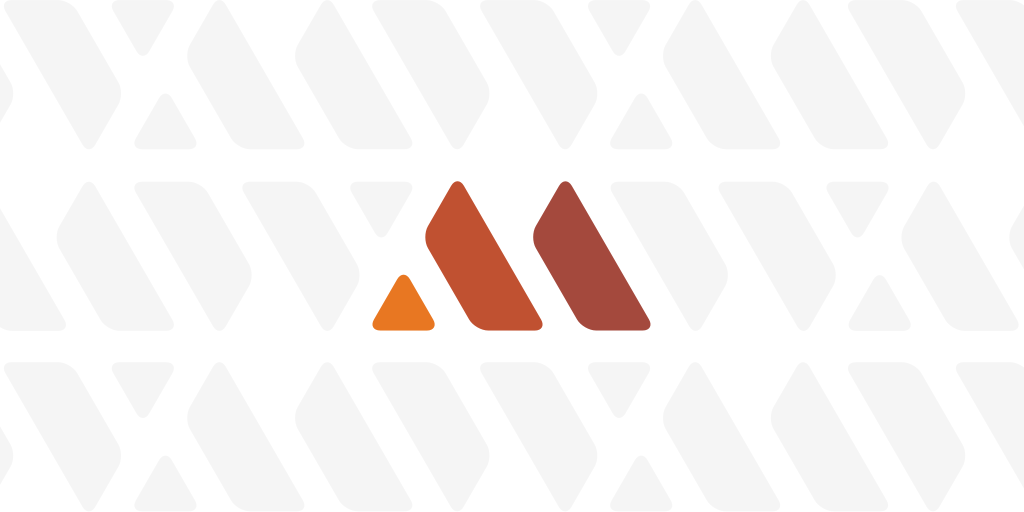
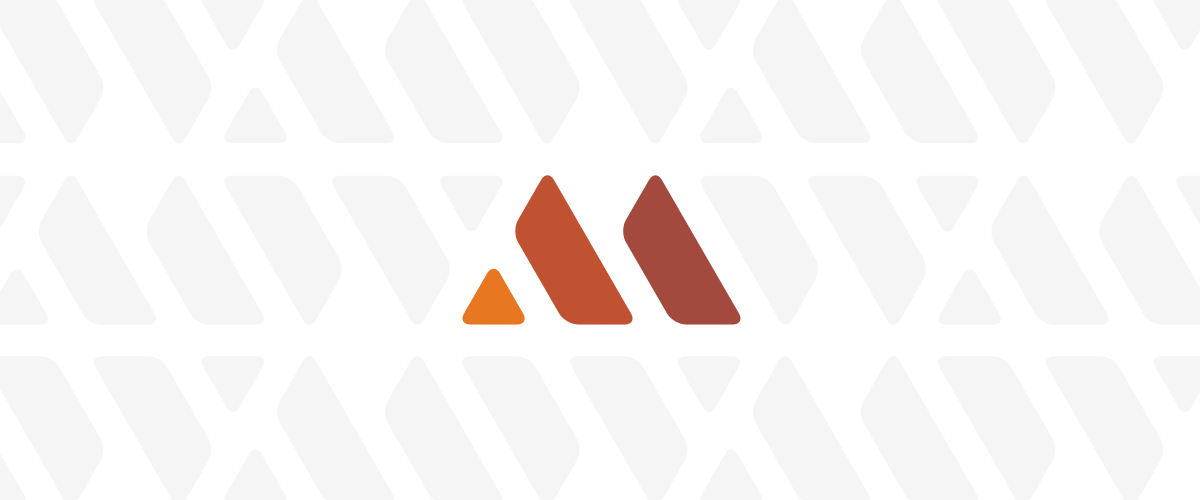
post footer
-post footer with arrows between projects
-image tweaks (1200x500 instead of 1025x512)

Changed region(s): [[0.3438, 0.33, 0.5312, 0.66], [0.5312, 0.33, 0.6562, 0.66], [0.4688, 0.51, 0.5625, 0.66]]

diff --git a/templates/post.html b/templates/post.html
@@ -5,7 +5,7 @@
 		<img class="2x" src="{{ header }}">
 	</section>
 	<h2 class="center mt4">
-		{{ title }}
+		{% autoescape off %}{{ title }}{% endautoescape %}
 	</h2>
 	<section class="clearfix max-sm mx-auto pt3 pl2 mt3">
 		<div class="col col-12 sm-col-6 pr2 pb2">
@@ -73,5 +73,23 @@
 			</nav>
 		</footer>
 	</section>-->
+	<footer class="clearfix max-sm mx-auto px2 py2">
+		<nav>
+			<span class="left">
+				{% if nextPost %}
+					<a href='/{{ nextPost.path }}'>
+						&larr; {% autoescape off %}{{ nextPost.title }}{% endautoescape %} 
+					</a>
+				{% endif %}
+			</span>			
+			<span class="right">
+			{% if prevPost %}
+				<a href='/{{ prevPost.path }}'>
+					{% autoescape off %}{{ prevPost.title }}{% endautoescape %} &rarr;
+				</a>
+			{% endif %}
+			</span>
+		</nav>
+	</footer>
 
 {% endblock content %}

diff --git a/.build/posts/habit-list.html b/.build/posts/habit-list.html
@@ -126,7 +126,7 @@
 				<span class="prev">
 				
 					<a href='/posts/anuta-documents.html'>
-						<span class="arrow">&larr;</span> Anuta Networks Print System
+						<span class="arrow">&larr;</span> Anuta Networks &lt;br class=&quot;sm-hide&quot;&gt;Print System
 					</a>
 				
 				</span>
@@ -141,6 +141,24 @@
 			</nav>
 		</footer>
 	</section>-->
+	<footer class="clearfix max-sm mx-auto px2 py2">
+		<nav>
+			<span class="left">
+				
+					<a href='/posts/mushi-labs.html'>
+						&larr; Mushi Labs Logo 
+					</a>
+				
+			</span>			
+			<span class="right">
+			
+				<a href='/posts/anuta-documents.html'>
+					Anuta Networks <br class="sm-hide">Print System &rarr;
+				</a>
+			
+			</span>
+		</nav>
+	</footer>
 
 
 	

diff --git a/.build/index.html b/.build/index.html
@@ -122,7 +122,7 @@
 						<img src="static/images/anuta-documents/thumb.png">
 						<div class="absolute top-0 left-0 right-0 bottom-0 py2 px3 mr2 mb2 bg-white-95 hover-show">
 							<h3 class="mb0">
-								Anuta Networks Print System
+								Anuta Networks <br class="sm-hide">Print System
 							</h3>
 							<h5 class="mt0">
 								2015
@@ -153,7 +153,7 @@
 			
 				<a href='/posts/anuta-documents.html'>
 					<img class="2x" width="300" height="300" src="static/images/anuta-documents/thumb.png"/>
-					<span>Anuta Networks Print System</span>
+					<span>Anuta Networks &lt;br class=&quot;sm-hide&quot;&gt;Print System</span>
 				</a>
 			
 		</section>-->

diff --git a/.build/posts/anuta-documents.html b/.build/posts/anuta-documents.html
@@ -72,7 +72,7 @@
 		<img class="2x" src="/static/images/anuta-documents/header.png">
 	</section>
 	<h2 class="center mt4">
-		Anuta Networks Print System
+		Anuta Networks <br class="sm-hide">Print System
 	</h2>
 	<section class="clearfix max-sm mx-auto pt3 pl2 mt3">
 		<div class="col col-12 sm-col-6 pr2 pb2">
@@ -143,6 +143,20 @@
 			</nav>
 		</footer>
 	</section>-->
+	<footer class="clearfix max-sm mx-auto px2 py2">
+		<nav>
+			<span class="left">
+				
+					<a href='/posts/habit-list.html'>
+						&larr; Redesigning Habit list 
+					</a>
+				
+			</span>			
+			<span class="right">
+			
+			</span>
+		</nav>
+	</footer>
 
 
 	

diff --git a/pages/index.html b/pages/index.html
@@ -15,7 +15,7 @@
 						<img src="{{ post.thumbnail }}">
 						<div class="absolute top-0 left-0 right-0 bottom-0 py2 px3 mr2 mb2 bg-white-95 hover-show">
 							<h3 class="mb0">
-								{{ post.title }}
+								{% autoescape off %}{{ post.title }}{% endautoescape %}
 							</h3>
 							<h5 class="mt0">
 								{{ post.date|date:"Y" }}

diff --git a/.build/posts/mushi-labs.html b/.build/posts/mushi-labs.html
@@ -143,6 +143,20 @@
 			</nav>
 		</footer>
 	</section>-->
+	<footer class="clearfix max-sm mx-auto px2 py2">
+		<nav>
+			<span class="left">
+				
+			</span>			
+			<span class="right">
+			
+				<a href='/posts/habit-list.html'>
+					Redesigning Habit list &rarr;
+				</a>
+			
+			</span>
+		</nav>
+	</footer>
 
 
 	

diff --git a/pages/posts/anuta-documents.html b/pages/posts/anuta-documents.html
@@ -1,4 +1,4 @@
-title: Anuta Networks Print System
+title: Anuta Networks <br class="sm-hide">Print System
 
 thumbnail: static/images/anuta-documents/thumb.png
 header: /static/images/anuta-documents/header.png
